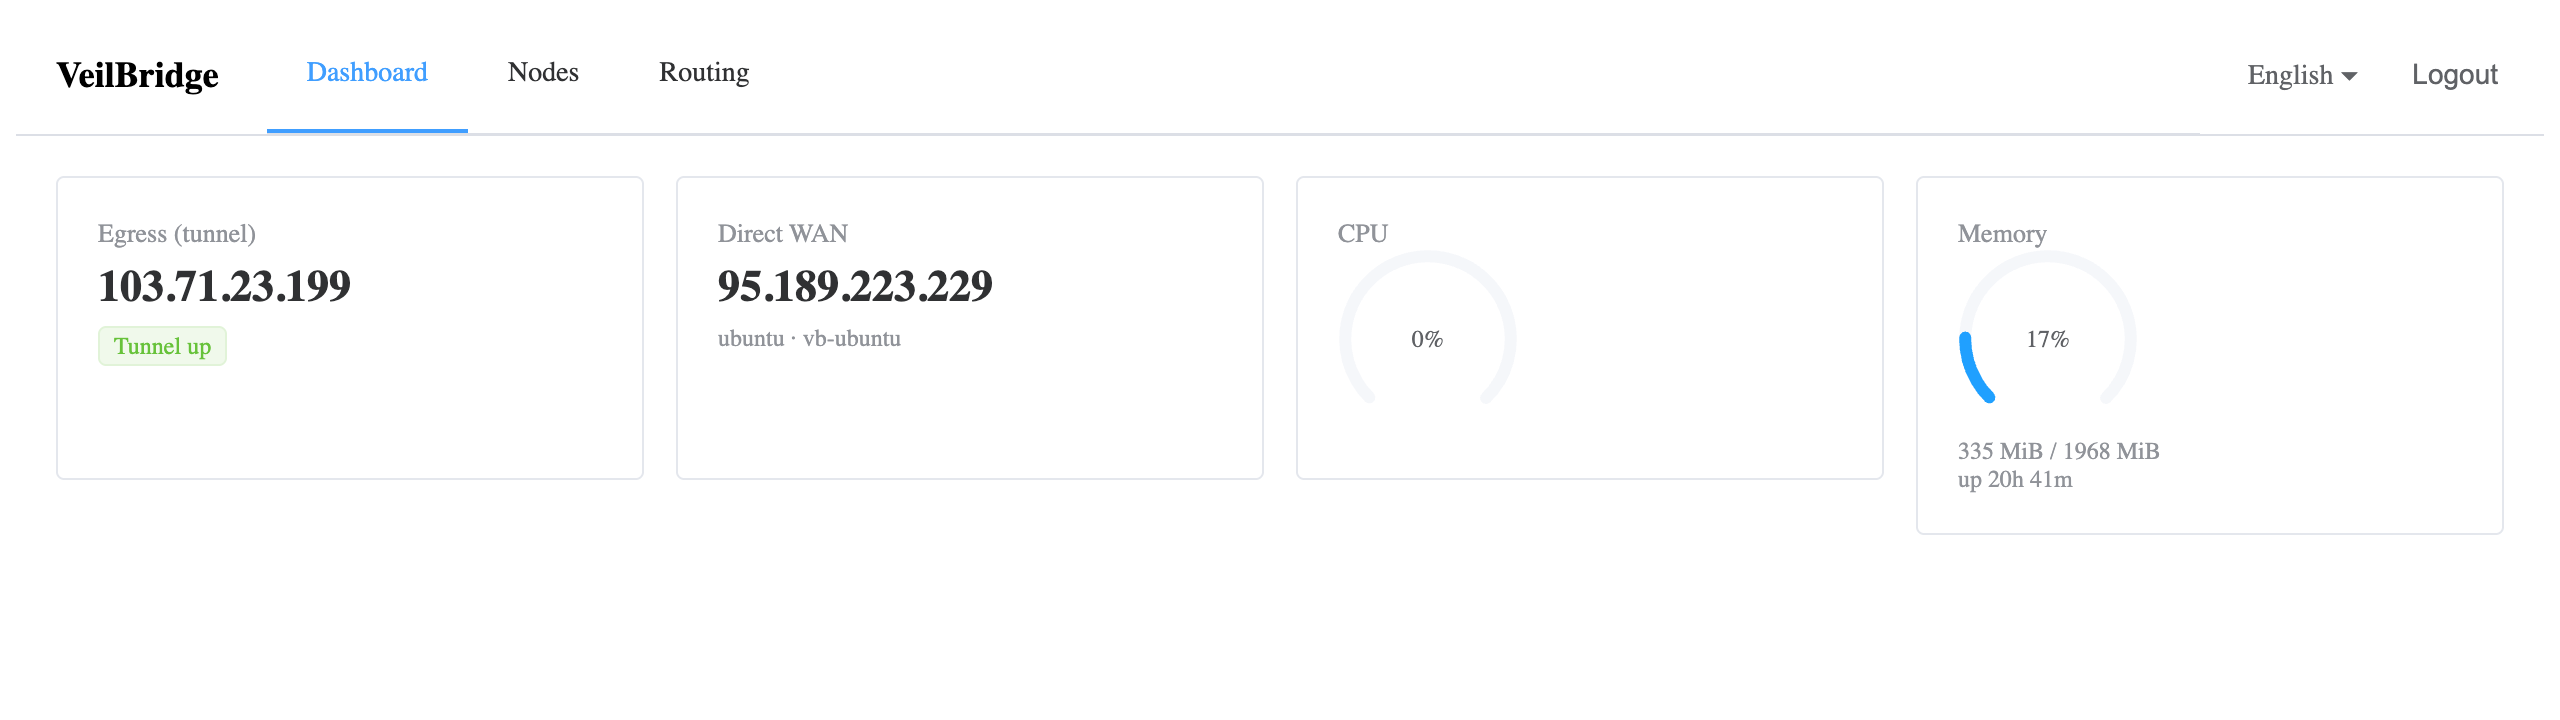
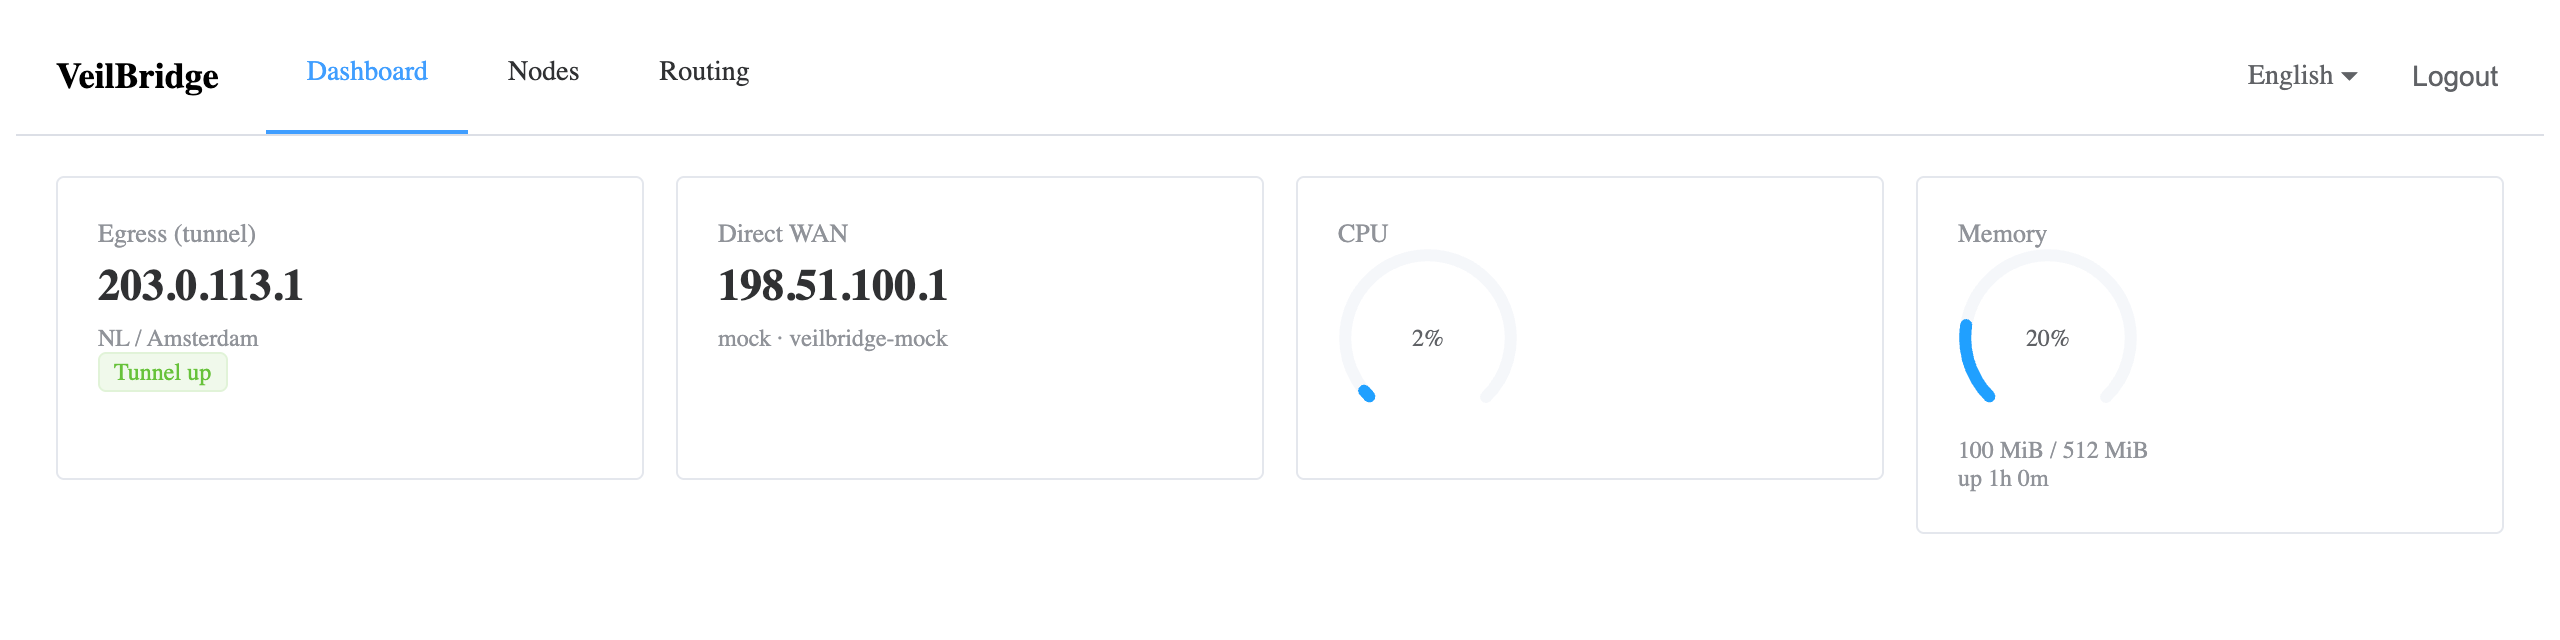
feat: add -demo mode and capture README screenshots from it

diff --git a/cmd/veilbridged/main.go b/cmd/veilbridged/main.go
@@ -18,6 +18,7 @@ import (
 	"github.com/veilbridge-os/veilbridge/internal/adapters"
 	"github.com/veilbridge-os/veilbridge/internal/api"
 	"github.com/veilbridge-os/veilbridge/internal/config"
+	"github.com/veilbridge-os/veilbridge/internal/core"
 	"github.com/veilbridge-os/veilbridge/internal/core/mock"
 )
 
@@ -28,6 +29,7 @@ func main() {
 		dev         = flag.Bool("dev", false, "enable the OpenAPI spec + Swagger UI endpoints (dev only)")
 		setPass     = flag.String("set-password", "", "set the admin password and exit")
 		dumpOpenAPI = flag.Bool("dump-openapi", false, "print the generated OpenAPI YAML and exit (CI snapshot)")
+		demo        = flag.Bool("demo", false, "serve sample data from an in-memory adapter: no OS access, no tunnels (UI development, screenshots, trying the panel without hardware)")
 	)
 	flag.Parse()
 
@@ -59,9 +61,17 @@ func main() {
 			"Run with -set-password <pw> first.")
 	}
 
-	adapter, err := adapters.New(*configPath)
-	if err != nil {
-		log.Fatalf("init adapter: %v", err)
+	var adapter core.Adapter
+	if *demo {
+		// Demo mode touches nothing on the host: no uci, no nftables, no TUN.
+		// Sample addresses come from the RFC 5737 documentation ranges.
+		log.Println("DEMO MODE: sample data, no OS access and no real tunnels")
+		adapter = mock.NewDemoAdapter()
+	} else {
+		adapter, err = adapters.New(*configPath)
+		if err != nil {
+			log.Fatalf("init adapter: %v", err)
+		}
 	}
 
 	srv, err := api.New(adapter, store, api.Options{Dev: *dev})

diff --git a/internal/core/mock/mock.go b/internal/core/mock/mock.go
@@ -172,6 +172,32 @@ func NewAdapter() *Adapter {
 	return &Adapter{vpn: &VPN{}, routing: &Routing{}}
 }
 
+// Seed pre-populates the manager with nodes and marks activeID as the current
+// egress. It exists so a demo instance can show a populated UI without an OS,
+// a router, or a real VPN endpoint.
+func (m *VPN) Seed(activeID string, nodes ...core.Node) {
+	m.mu.Lock()
+	defer m.mu.Unlock()
+	m.nodes = append(m.nodes, nodes...)
+	m.active = activeID
+}
+
+// NewDemoAdapter returns a mock adapter pre-loaded with plausible sample data.
+// Every address it reports comes from the IANA documentation ranges (RFC 5737),
+// so demo output is safe to publish as screenshots.
+func NewDemoAdapter() *Adapter {
+	a := NewAdapter()
+	a.vpn.Seed("node-nl",
+		core.Node{ID: "node-nl", Name: "amsterdam", Engine: core.EngineAmneziaWG, Endpoint: "203.0.113.10:443"},
+		core.Node{ID: "node-fi", Name: "helsinki", Engine: core.EngineAmneziaWG, Endpoint: "203.0.113.20:51820"},
+	)
+	_ = a.routing.SetRules([]core.RouteRule{
+		{ID: "r1", Kind: core.RuleDomain, Value: "example.com", Target: core.TargetTunnel},
+		{ID: "r2", Kind: core.RuleSubnet, Value: "198.51.100.0/24", Target: core.TargetDirect},
+	})
+	return a
+}
+
 func (*Adapter) Platform() string               { return "mock" }
 func (a *Adapter) VPN() core.VPNManager         { return a.vpn }
 func (a *Adapter) Routing() core.RoutingManager { return a.routing }

diff --git a/README.md b/README.md
@@ -95,6 +95,20 @@ sudo ./veilbridged -listen 0.0.0.0:8080
 `/dev/net/tun`; the kernel engine needs to create the `awg0` interface). Then
 open `http://<host>:8080/` and sign in.
 
+### Trying it without hardware
+
+`-demo` serves sample data from an in-memory adapter — no root, no tunnels and
+nothing touched on the host. Useful for a first look and for UI work:
+
+```bash
+./veilbridged -config /tmp/demo.json -set-password 'demo-password'
+./veilbridged -demo -config /tmp/demo.json -listen 127.0.0.1:8099
+```
+
+The screenshots above are captured from exactly this mode by
+[`scripts/screenshots.mjs`](./scripts/screenshots.mjs), so every address in them
+is from the documentation ranges reserved by RFC 5737.
+
 > **Security note:** the panel speaks plain HTTP today — run it on a trusted LAN
 > or behind a TLS-terminating reverse proxy. Built-in TLS is on the roadmap.
 
